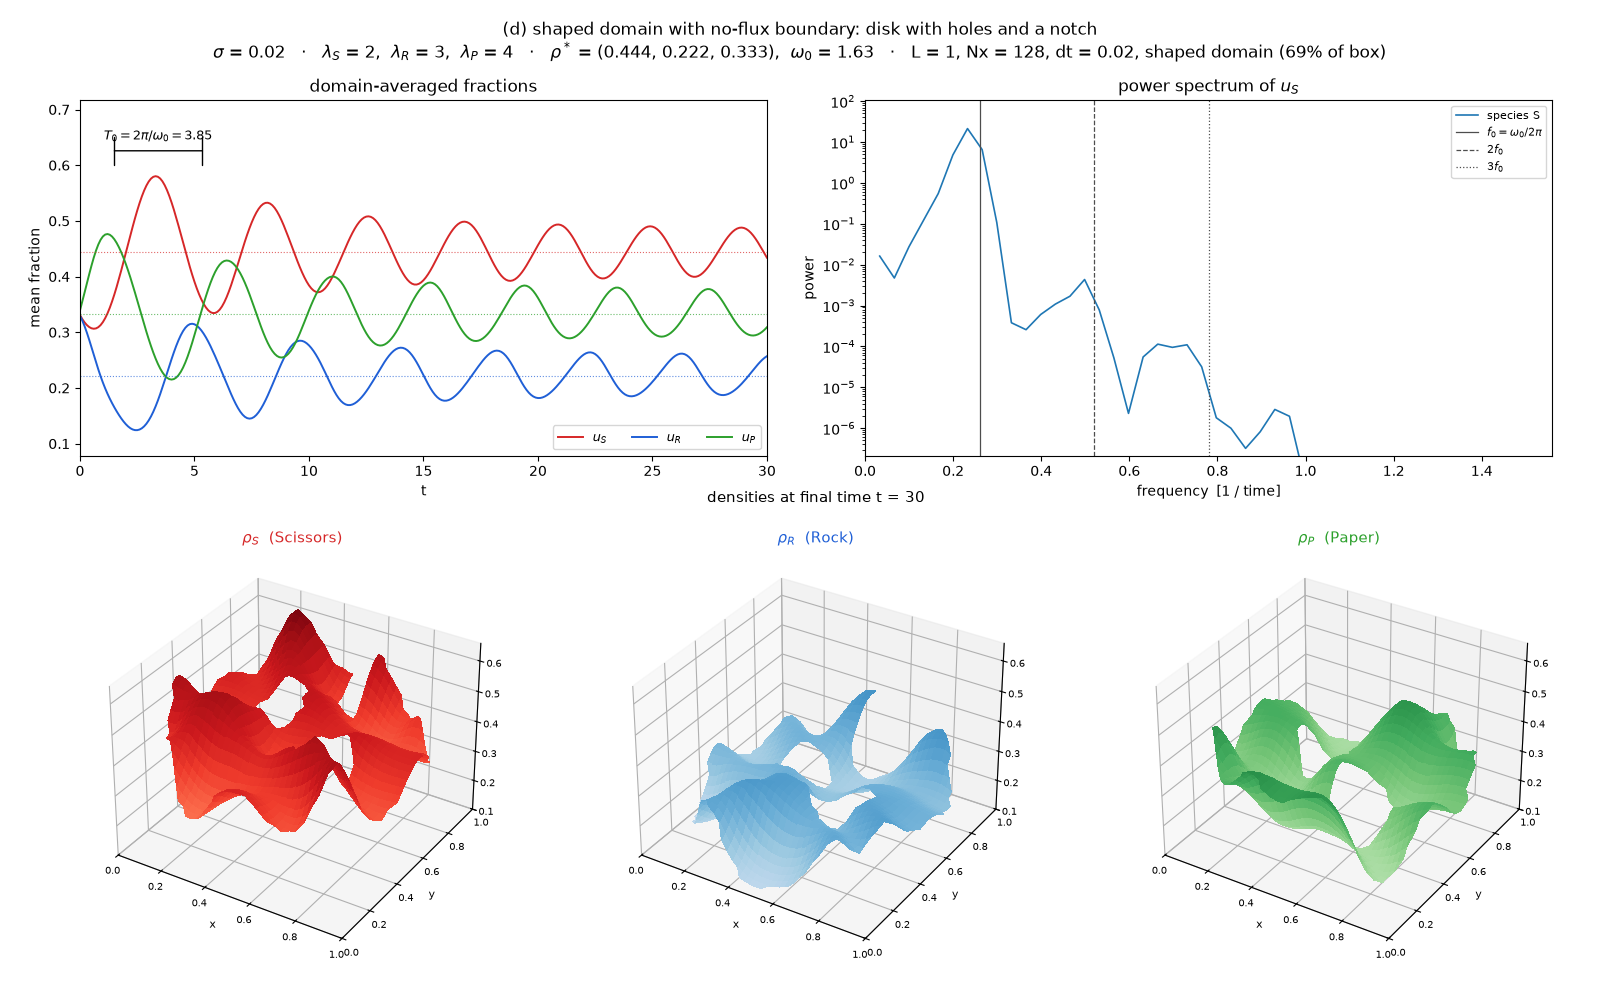
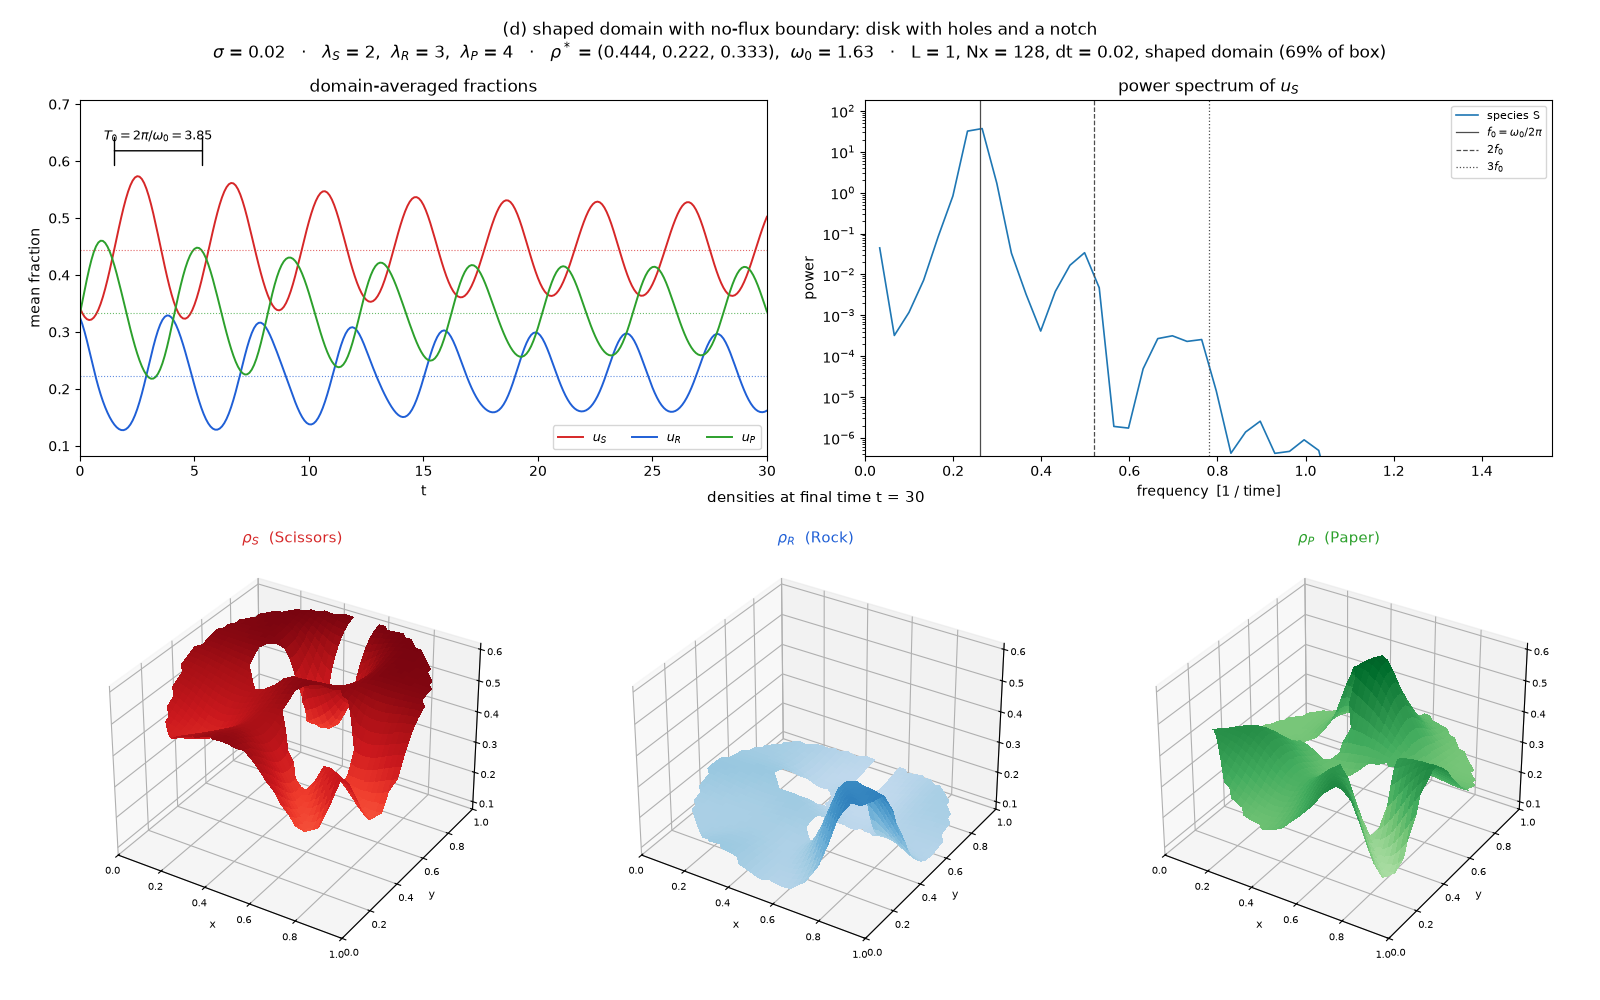
Add deterministic hills IC and two square-domain examples
- initial.hills(): one smooth Gaussian hill per species (no randomness)
- (e) square started far from the fixed point: large oscillations
- (f) square with a non-flat start (three hills)
- (d) now uses hills instead of random blobs, so every example is
  deterministic

diff --git a/rps_diffusion/initial.py b/rps_diffusion/initial.py
@@ -14,7 +14,7 @@ import numpy as np
 
 from .domain import grid
 
-__all__ = ["homogeneous", "random_perturbation", "stripes", "blobs", "concentrated", "normalise"]
+__all__ = ["homogeneous", "random_perturbation", "stripes", "blobs", "concentrated", "hills", "normalise"]
 
 S, R, P = 0, 1, 2
 
@@ -181,3 +181,46 @@ def concentrated(
     u = np.asarray(u0, dtype=float)
     rho[:, inside] = (u / u.sum())[:, None]
     return rho
+
+
+def hills(
+    Nx: int,
+    L: float = 1.0,
+    centres: tuple[tuple[float, float], tuple[float, float], tuple[float, float]] = (
+        (0.25, 0.3),
+        (0.75, 0.3),
+        (0.5, 0.75),
+    ),
+    width: float = 0.15,
+    amplitude: float = 1.0,
+    background: tuple[float, float, float] = (1 / 3, 1 / 3, 1 / 3),
+) -> np.ndarray:
+    """One smooth Gaussian hill per species on a uniform background (deterministic).
+
+    Parameters
+    ----------
+    Nx : int
+        Grid cells per axis.
+    L : float, default 1.0
+        Side length of the bounding square.
+    centres : tuple of three (x, y) pairs
+        Hill centres for S, R and P, in units of ``L``.
+    width : float, default 0.15
+        Hill standard deviation in units of ``L``.
+    amplitude : float, default 1.0
+        Height of each hill added to the background before normalising.
+    background : tuple of float, default (1/3, 1/3, 1/3)
+        Fractions far away from the hills.
+
+    Returns
+    -------
+    np.ndarray
+        Array of shape ``(3, Nx, Nx)``.
+    """
+    X, Y = grid(Nx, L)
+    base = np.asarray(background, dtype=float)
+    rho = np.empty((3, Nx, Nx))
+    for k, (cx, cy) in enumerate(centres):
+        r2 = (X - cx * L) ** 2 + (Y - cy * L) ** 2
+        rho[k] = base[k] / base.sum() + amplitude * np.exp(-r2 / (2 * (width * L) ** 2))
+    return normalise(rho)

diff --git a/rps_diffusion/examples/e_square_large_cycles.py b/rps_diffusion/examples/e_square_large_cycles.py
@@ -1,0 +1,39 @@
+"""(e) Square, far from equilibrium: large, volatile oscillations.
+
+The system starts with Scissors dominating, (0.80, 0.12, 0.08), far from
+the fixed point ρ*, plus a gentle smooth tilt across the square so that
+different regions are slightly out of phase. Far from ρ* the reaction is
+strongly nonlinear. The mean fractions swing between near-extinction
+(about 0.02) and dominance (about 0.8) for each species in turn. Their
+period is about 20 % longer than the linear T₀ = 2π/ω₀, and the swings
+slowly shrink as the regions drift out of phase and average out.
+"""
+
+from __future__ import annotations
+
+import numpy as np
+
+from rps_diffusion import RPSSimulator
+from rps_diffusion.domain import grid
+from rps_diffusion.examples._common import report_frequencies, save_outputs
+from rps_diffusion.initial import normalise
+
+
+def main() -> None:
+    """Run scenario (e)."""
+    Nx, L, sigma = 96, 1.0, 0.03
+    rates = (2.0, 3.0, 4.0)
+    print(f"(e) square, large cycles, rates {rates}")
+    X, Y = grid(Nx, L)
+    tilt = 0.08 * (X + Y - L) / L  # smooth, deterministic, in [-0.08, 0.08]
+    rho0 = normalise(np.stack([0.80 + tilt, 0.12 - tilt / 2, 0.08 - tilt / 2]))
+    sim = RPSSimulator(rates, sigma=sigma, L=L, dt=0.01, Nx=Nx)
+    res = sim.run(rho0, t_max=60.0, save_every=10)
+    report_frequencies(res)
+    print(f"  range of mean fractions: min {res.fractions.min():.3f}, max {res.fractions.max():.3f}")
+    save_outputs(res, "e_square_large_cycles",
+                 "(e) square, start far from the fixed point: large, volatile oscillations")
+
+
+if __name__ == "__main__":
+    main()

diff --git a/rps_diffusion/examples/f_square_hills.py b/rps_diffusion/examples/f_square_hills.py
@@ -1,0 +1,27 @@
+"""(f) Square with a non-flat start: one smooth hill per species.
+
+Each species starts with a Gaussian hill at a different place: S at the
+lower left, R at the lower right, P at the top. Where two hills meet, the
+winner of that pair invades the loser, so the hills turn into rotating,
+expanding fronts that reflect off the no-flux walls of the square.
+"""
+
+from __future__ import annotations
+
+from rps_diffusion import RPSSimulator, hills
+from rps_diffusion.examples._common import report_frequencies, save_outputs
+
+
+def main() -> None:
+    """Run scenario (f)."""
+    Nx, L, sigma = 96, 1.0, 0.03
+    rates = (2.0, 3.0, 4.0)
+    print(f"(f) square, three hills, rates {rates}")
+    sim = RPSSimulator(rates, sigma=sigma, L=L, dt=0.01, Nx=Nx)
+    res = sim.run(hills(Nx, L, width=0.12, amplitude=1.5), t_max=40.0, save_every=10)
+    report_frequencies(res)
+    save_outputs(res, "f_square_hills", "(f) square, non-flat start: one smooth hill per species")
+
+
+if __name__ == "__main__":
+    main()

diff --git a/rps_diffusion/examples/d_shaped_domains.py b/rps_diffusion/examples/d_shaped_domains.py
@@ -7,7 +7,7 @@ shape, including the boundaries of the holes.
 
 from __future__ import annotations
 
-from rps_diffusion import Domain, RPSSimulator, blobs
+from rps_diffusion import Domain, RPSSimulator, hills
 from rps_diffusion.examples._common import report_frequencies, save_outputs
 
 
@@ -25,7 +25,7 @@ def main() -> None:
     for name, label, dom in (("d_ring", "ring", ring), ("d_obstacles", "disk with holes and a notch", obstacles)):
         print(f"(d) {name}: {dom}")
         sim = RPSSimulator(rates, sigma=sigma, L=L, dt=0.02, domain=dom)
-        res = sim.run(blobs(Nx, L, n_blobs=8, seed=1), t_max=30.0, save_every=5)
+        res = sim.run(hills(Nx, L, width=0.1, amplitude=1.5), t_max=30.0, save_every=5)
         report_frequencies(res)
         save_outputs(res, name, f"(d) shaped domain with no-flux boundary: {label}")
 

diff --git a/rps_diffusion/examples/__main__.py b/rps_diffusion/examples/__main__.py
@@ -2,12 +2,20 @@
 
 from __future__ import annotations
 
-from rps_diffusion.examples import a_omega0, b_asymmetric_rates, c_stripe_fronts, d_shaped_domains
+from rps_diffusion.examples import (
+    a_omega0,
+    b_asymmetric_rates,
+    c_stripe_fronts,
+    d_shaped_domains,
+    e_square_large_cycles,
+    f_square_hills,
+)
 
 
 def main() -> None:
-    """Run scenarios (a) to (d) in sequence."""
-    for module in (a_omega0, b_asymmetric_rates, c_stripe_fronts, d_shaped_domains):
+    """Run scenarios (a) to (f) in sequence."""
+    for module in (a_omega0, b_asymmetric_rates, c_stripe_fronts, d_shaped_domains,
+                   e_square_large_cycles, f_square_hills):
         module.main()
 
 

diff --git a/tests/test_domain_initial.py b/tests/test_domain_initial.py
@@ -5,7 +5,7 @@ from __future__ import annotations
 import numpy as np
 import pytest
 
-from rps_diffusion import Domain, blobs, concentrated, homogeneous, random_perturbation, stripes
+from rps_diffusion import Domain, blobs, concentrated, hills, homogeneous, random_perturbation, stripes
 
 
 def test_domain_shapes() -> None:
@@ -41,6 +41,8 @@ def test_domain_disconnected_warns() -> None:
         concentrated(16),
         concentrated(16, background=(0.2, 0.3, 0.5)),
         random_perturbation(16, background=(0.5, 0.2, 0.3)),
+        hills(16),
+        hills(16, background=(0.2, 0.3, 0.5), amplitude=0.3),
     ],
 )
 def test_initial_conditions_are_simplex_valued(rho: np.ndarray) -> None:

diff --git a/rps_diffusion/__init__.py b/rps_diffusion/__init__.py
@@ -12,7 +12,7 @@ no-flux boundary conditions.
 
 from .analysis import dominant_frequencies, frequency_spectrum, plot_spectrum
 from .domain import Domain
-from .initial import blobs, concentrated, homogeneous, random_perturbation, stripes
+from .initial import blobs, concentrated, hills, homogeneous, random_perturbation, stripes
 from .simulator import RPSSimulator, SimResult, fixed_point, omega0
 from .visualize import describe_parameters, make_video, plot_fractions, plot_snapshot, plot_surfaces
 
@@ -27,6 +27,7 @@ __all__ = [
     "stripes",
     "blobs",
     "concentrated",
+    "hills",
     "make_video",
     "plot_fractions",
     "plot_snapshot",

diff --git a/README.md b/README.md
@@ -133,7 +133,7 @@ the domain only.
 poetry install && poetry run python -m rps_diffusion.examples
 ```
 
-This runs scenarios (a)–(d) in about a minute and writes one summary figure
+This runs scenarios (a)–(f) in about a minute and a half and writes one summary figure
 and one video per scenario to `examples/output/`. To run a single scenario,
 use for example `poetry run python -m rps_diffusion.examples.b_asymmetric_rates`.
 Videos are MP4 when `ffmpeg` is on the `PATH` and GIF otherwise. MP4 files
@@ -166,13 +166,33 @@ against the predicted 0.1701. The time-averaged fractions
 ![c](examples/output/c_stripe_fronts.gif)
 ![c plot](examples/output/c_stripe_fronts.png)
 
-**(d) Shaped domains, rates (2, 3, 4).** A ring, and a disk with two holes
-and a notch. No flux crosses any boundary.
+**(d) Shaped domains, rates (2, 3, 4), one hill per species.** A ring, and a
+disk with two holes and a notch. No flux crosses any boundary.
 
 ![d ring](examples/output/d_ring.gif)
 ![d ring plot](examples/output/d_ring.png)
 ![d obstacles](examples/output/d_obstacles.gif)
 ![d obstacles plot](examples/output/d_obstacles.png)
+
+**(e) Square, far from equilibrium: large oscillations.** The run starts
+with Scissors dominating, (0.80, 0.12, 0.08), plus a gentle tilt across the
+square. The mean fractions swing between about 0.02 and 0.8. Because the
+dynamics are nonlinear, the period is about 20 % longer than T₀.
+
+![e](examples/output/e_square_large_cycles.gif)
+![e plot](examples/output/e_square_large_cycles.png)
+
+**(f) Square, non-flat start.** One smooth hill per species (`hills()`): S
+at the lower left, R at the lower right, P at the top. The hills turn into
+rotating fronts that reflect off the no-flux walls.
+
+![f](examples/output/f_square_hills.gif)
+![f plot](examples/output/f_square_hills.png)
+
+All initial conditions in the examples are deterministic, and the PDE
+itself has no random terms: σ enters only through the diffusion coefficient
+D = σ²/2. `random_perturbation` and `blobs` are available if you want
+random initial states.
 
 ## Numerics
 
@@ -219,6 +239,6 @@ rps_diffusion/
 │   ├── simulator.py     # RPSSimulator, SimResult, fixed_point, omega0
 │   ├── visualize.py     # make_video, plot_fractions, plot_surfaces, ...
 │   ├── analysis.py      # frequency_spectrum, dominant_frequencies
-│   └── examples/        # scenarios (a)–(d), python -m rps_diffusion.examples
+│   └── examples/        # scenarios (a)–(f), python -m rps_diffusion.examples
 └── tests/
 ```
